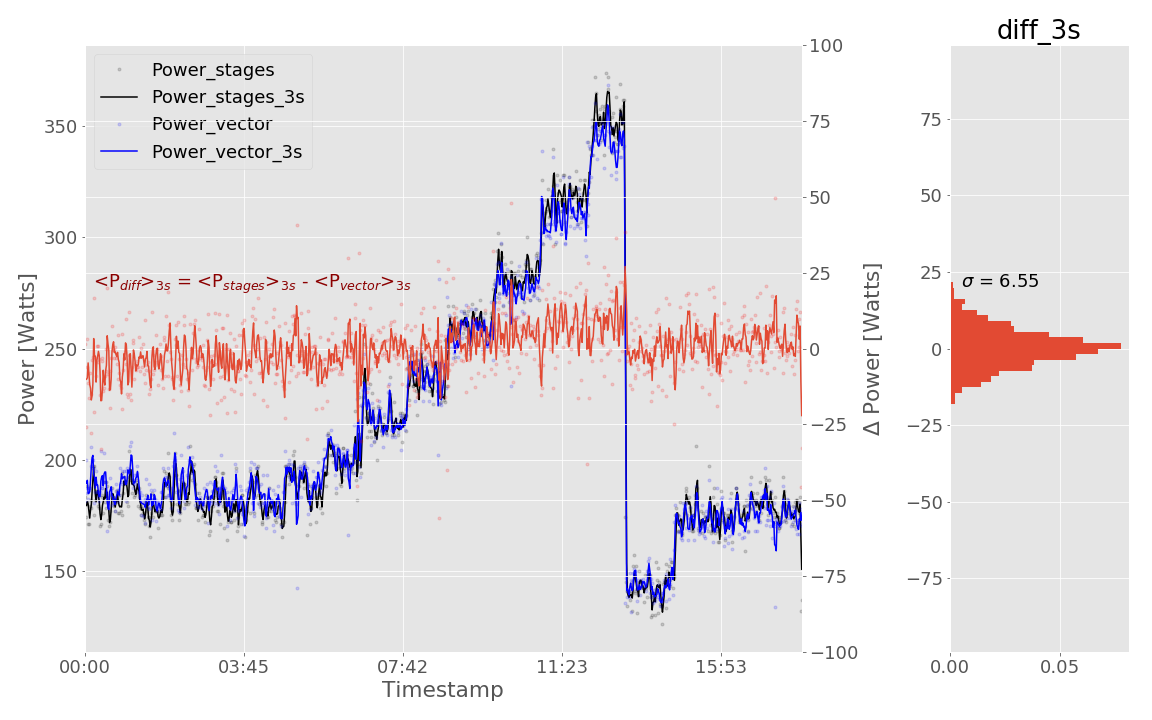
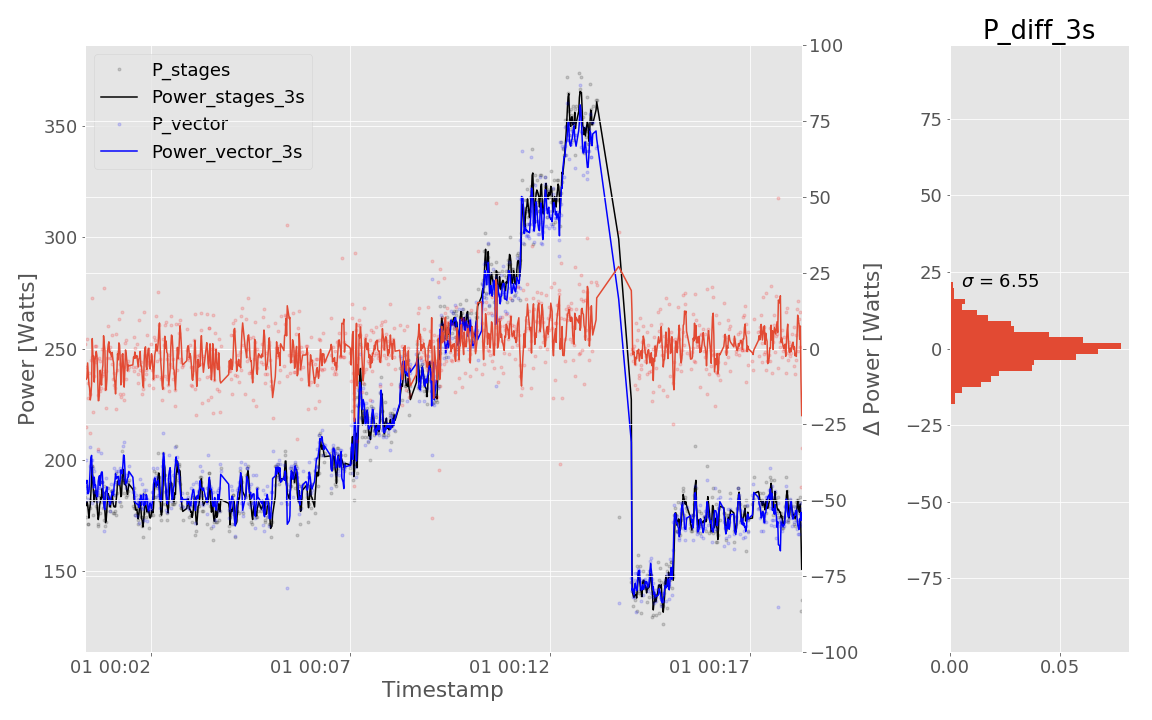
final edit  garmin_vs_stages

diff --git a/_posts/2017-05-21-Garmin-Vector-vs-Stages-Power.md b/_posts/2017-05-21-Garmin-Vector-vs-Stages-Power.md
@@ -8,31 +8,38 @@ categories: cycling
 
 ### Do I really suck or my power meter is lying?
 
-I've spent last few years competing against my cycling buddy Roberto. He is objectively stronger than me, but the question always was how good am I at closing the gap in our cycling abilities.
+I've spent last few years competing against my cycling buddy Roberto. He is objectively stronger than me, but the real question always was - how good am I at closing the gap in our cycling abilities?
 
-The winter months, for example, are the times, when, during the week, we would be training indoor and track each others progress only via power numbers published on Strava. It was always quite discouraging to see that the numbers from Roberto were regularly 20-30 Watts higher than mine.
+The winter months were the times, when we would be training indoor and track each others progress only via power numbers published on *Strava*. It was always quite discouraging to see that the numbers from Roberto were regularly 20-30 Watts higher than mine.
 
-On those occasions when weather was permitting going outside we would go shoulder-to-shoulder on the open roads and observe that the power difference hardly translated into the difference in speed.
+On those occasions when weather was permitting we would go outside shoulder-to-shoulder on the open roads and observe that the power difference hardly translated into the difference in speed.
 
-We are both the same size, the same weight, riding similar bikes and collecting power numbers from the Garmin Vector units. Given that back then we were both living in the pancake flat Netherlands, this power discrepancy at the same speed was leaving us scratching our heads in disbelief.
+We are both the same size, the same weight, riding similarly priced bikes (bloody expensive according to our wives) and collecting power numbers from the *Garmin Vector* units. Given that back then we were both living in the pancake flat Netherlands, this power discrepancy at the same speed was leaving us scratching our heads in disbelief.
 
+When one starts training with a power meter it is impossible to go back so it was only a matter of time before I bough a second power meter for my winter/commute bike. I've opted for *Stages power* this time and this gave me a unique opportunity to compare power readings from both devices head to head.
+
+### Setting up experiment
+
+I've installed both power meters on my aluminum *Wilier La Triestina* bike equipped with *Shimano Ultegra 6700 2013* groupset. The bike was mounted on the *Tacx Flow* turbo trainer. The power from the *Stages* was collected using *Garmin Edge 520*. The power from the *Vector* was transmitted to *Garmin Edge 800*. Both streams were using ANT+ protocol.
+
+I've executed simple ramp test with increasing power from 200 to 350 Watts each minute with a step of 25 Watts.
+
+For data processing I've used directly *.fit* files and *pandas* powered python script. Both data streams were synchronized in time and spurious readings like power drops or cadence spikes were removed from analysis.
+
+I've also used balance information from *Vector* to report the power as 2xLeft in order to match it with readings from *Stages*. The latter provides only single sided data.
 
 ### Comparing absolute accuracy of Garmin Vector to Stages Power
 
-After one starts training with a power meter it is impossible to go back so it was only a matter of time before I bough a power meter for my winter/commute bike. I've opted for Stages power this time and of course the first thing I did is to compare the head-to-head power readings from both devices.
-
-Let's jump directly into results. Details of the actual data collection setup and processing used can be found later in the article.
+Results of the experiment are on the graph below. Power readings from *Stages* and *Vector* are shown in black and blue respectively. While *power difference* is shown in red. The scatter dots represent data collected with sampling rate 1 sample/sec, while the lines are the result of applying moving average filter with duration 3 sec. The latter is the same settings as I use on the *Garmin Edge* units.
 
 ![title]({{site.url}}/assets/vector_stages/garmin_vs_stages.png)
 
-### Data quality
+I think it is fair to say that the power readings are matched very well. The distribution of the power difference is well centered around zero and standard deviation of 6.55 Watts amounts to only 2.6% of the average power 250 Watts - quite within the promised precision of both devices, not to mention that the noise adds quadratically.
 
-Since I'm on the subject it would be a shame not to address the data quality from both devices. Dropped readings and unusual spikes is a normal behavior of power meters, but some suffer from these issues less than the others.
+### So what?
 
-### Data collection
+This simple experiment did not help me to unravel the mystery of power difference between me and Roberto but left me with enough confidence to easily switch between my two bicycles.
 
+On the other hand it is worth mentioning that [the more elaborate studies](https://www.ncbi.nlm.nih.gov/m/pubmed/28482367/) claim that the absolute accuracy of different power meters can vary as much as by 5%.
 
-### Data processing
-
-
-### Useful resources
+I might be just lucky with mine.
